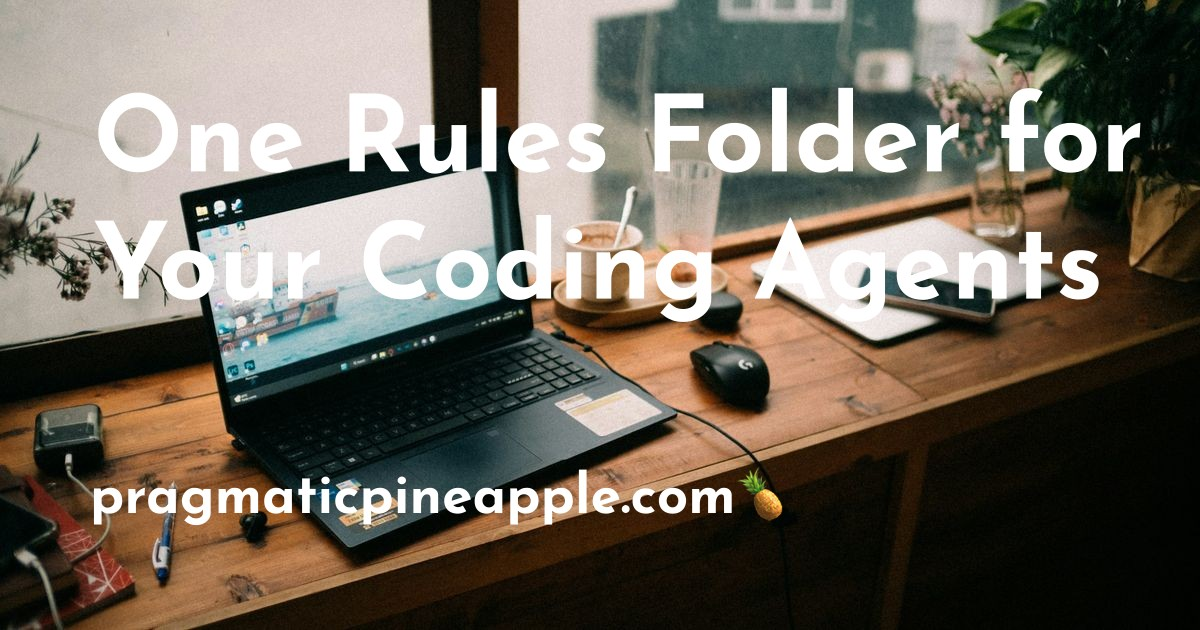
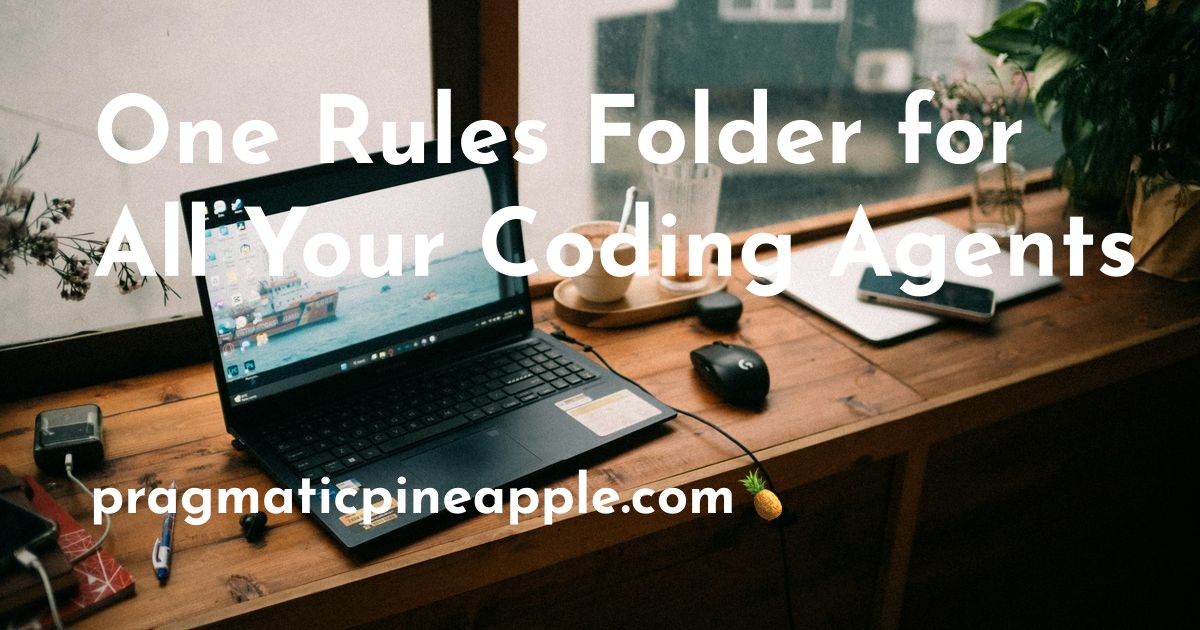
Let social images dim bright covers, and include every agent in the rules title.

Changed region(s): [[0.0617, 0.3016, 0.9558, 0.5127], [0.0925, 0.1206, 0.9558, 0.2714]]

diff --git a/scripts/og-image.js b/scripts/og-image.js
@@ -43,6 +43,7 @@ function printHelp() {
 Usage:
   npm run og-image -- <slug-or-directory> [more...]
   npm run og-image -- my-post --font-size 72
+  npm run og-image -- my-post --dim 45
   npm run og-image -- --cover cover.jpg --title "Post title" --out og-image.jpg
 
 The cover is center-cropped to 1200x630. The title is Josefin Sans Bold,
@@ -55,6 +56,8 @@ Options:
   --title <text>     Title to draw. Defaults to the post title.
   --font-size <px>   Lock the title size. Without this, the size is chosen
                      between 60 and 110 to fit the title.
+  --dim <0-100>      Pull down bright areas so white text stays readable.
+                     0 leaves the photo alone. Try 40 on a bright cover.
   --cover <file>     Cover image. Defaults to the post coverImage.
   --out <file>       Output path. Defaults to <post>/og-image.jpg.
   --no-frontmatter   Do not write blogOgImage into index.md.
@@ -67,6 +70,7 @@ function parseArgs(argv) {
     posts: [],
     title: null,
     fontSize: null,
+    dim: null,
     cover: null,
     out: null,
     frontmatter: true,
@@ -81,6 +85,8 @@ function parseArgs(argv) {
       options.title = readOption(argv, ++i, "--title")
     } else if (arg === "--font-size") {
       options.fontSize = readSize(argv, ++i, "--font-size")
+    } else if (arg === "--dim") {
+      options.dim = readPercent(argv, ++i, "--dim")
     } else if (arg === "--cover") {
       options.cover = readOption(argv, ++i, "--cover")
     } else if (arg === "--out") {
@@ -112,6 +118,57 @@ function readSize(argv, index, flag) {
     throw new Error(`${flag} needs a size in pixels, like 72`)
   }
   return size
+}
+
+function readPercent(argv, index, flag) {
+  const value = readOption(argv, index, flag)
+  const amount = Number(value)
+  if (!Number.isFinite(amount) || amount < 0 || amount > 100) {
+    throw new Error(`${flag} needs a number from 0 to 100`)
+  }
+  return amount
+}
+
+function smoothstep(edge0, edge1, value) {
+  const t = Math.min(1, Math.max(0, (value - edge0) / (edge1 - edge0)))
+  return t * t * (3 - 2 * t)
+}
+
+// Bright covers swallow white type. This leaves shadows close to where they
+// are and pulls the highlights down, which is the part that clashes with
+// the title.
+async function toneDown(image, amount) {
+  if (!amount) return image
+
+  const strength = amount / 100
+  const { data, info } = await sharp(image)
+    .ensureAlpha()
+    .raw()
+    .toBuffer({ resolveWithObject: true })
+  const pixels = Buffer.from(data)
+
+  for (let i = 0; i < pixels.length; i += info.channels) {
+    const red = pixels[i]
+    const green = pixels[i + 1]
+    const blue = pixels[i + 2]
+    const luminance = (0.2126 * red + 0.7152 * green + 0.0722 * blue) / 255
+    const highlight = smoothstep(0.4, 1, luminance)
+    const factor = 1 - strength * (0.12 + 0.55 * highlight)
+    pixels[i] = Math.round(red * factor)
+    pixels[i + 1] = Math.round(green * factor)
+    pixels[i + 2] = Math.round(blue * factor)
+  }
+
+  return sharp(pixels, {
+    raw: {
+      width: info.width,
+      height: info.height,
+      channels: info.channels,
+    },
+  })
+    .removeAlpha()
+    .png()
+    .toBuffer()
 }
 
 function resolvePost(input) {
@@ -411,6 +468,7 @@ async function renderOgImage({
   outPath,
   font,
   fontSize: fixedSize,
+  dim,
 }) {
   const missing = missingGlyphs(font, `${title} ${DOMAIN}`)
   if (missing.length) {
@@ -459,9 +517,10 @@ async function renderOgImage({
   const emojiLeft = Math.round(DOMAIN_X + domainWidth)
   const emojiTop = Math.round(domainY - emoji.ascent)
 
-  const background = await sharp(coverPath)
+  const cropped = await sharp(coverPath)
     .resize(WIDTH, HEIGHT, { fit: "cover", position: "centre" })
     .toBuffer()
+  const background = await toneDown(cropped, dim)
 
   const image = sharp(background).composite([
     { input: text, top: 0, left: 0 },
@@ -522,12 +581,14 @@ async function generateForPost(input, options) {
     outPath,
     font: options.font,
     fontSize: options.fontSize,
+    dim: options.dim,
   })
   const relativeOut = path.relative(ROOT, outPath)
 
   console.log(title)
   for (const line of layout.lines) console.log(`  ${line}`)
   console.log(`  ${layout.fontSize}px`)
+  if (options.dim) console.log(`  dim ${options.dim}%`)
   console.log(`wrote ${relativeOut}`)
 
   if (!options.frontmatter) return
@@ -573,11 +634,13 @@ async function generateOneOff(options) {
     outPath,
     font: options.font,
     fontSize: options.fontSize,
+    dim: options.dim,
   })
 
   console.log(options.title)
   for (const line of layout.lines) console.log(`  ${line}`)
   console.log(`  ${layout.fontSize}px`)
+  if (options.dim) console.log(`  dim ${options.dim}%`)
   console.log(`wrote ${path.relative(ROOT, outPath)}`)
 }
 

diff --git a/content/blog/one-agent-rules-folder/index.md b/content/blog/one-agent-rules-folder/index.md
@@ -1,5 +1,5 @@
 ---
-title: One Rules Folder for Your Coding Agents
+title: One Rules Folder for All Your Coding Agents
 description: Do not duplicate. Keep one source of truth when the tool will let you. A generated copy is how the files drift apart.
 slug: one-agent-rules-folder
 date: 2026-10-25
